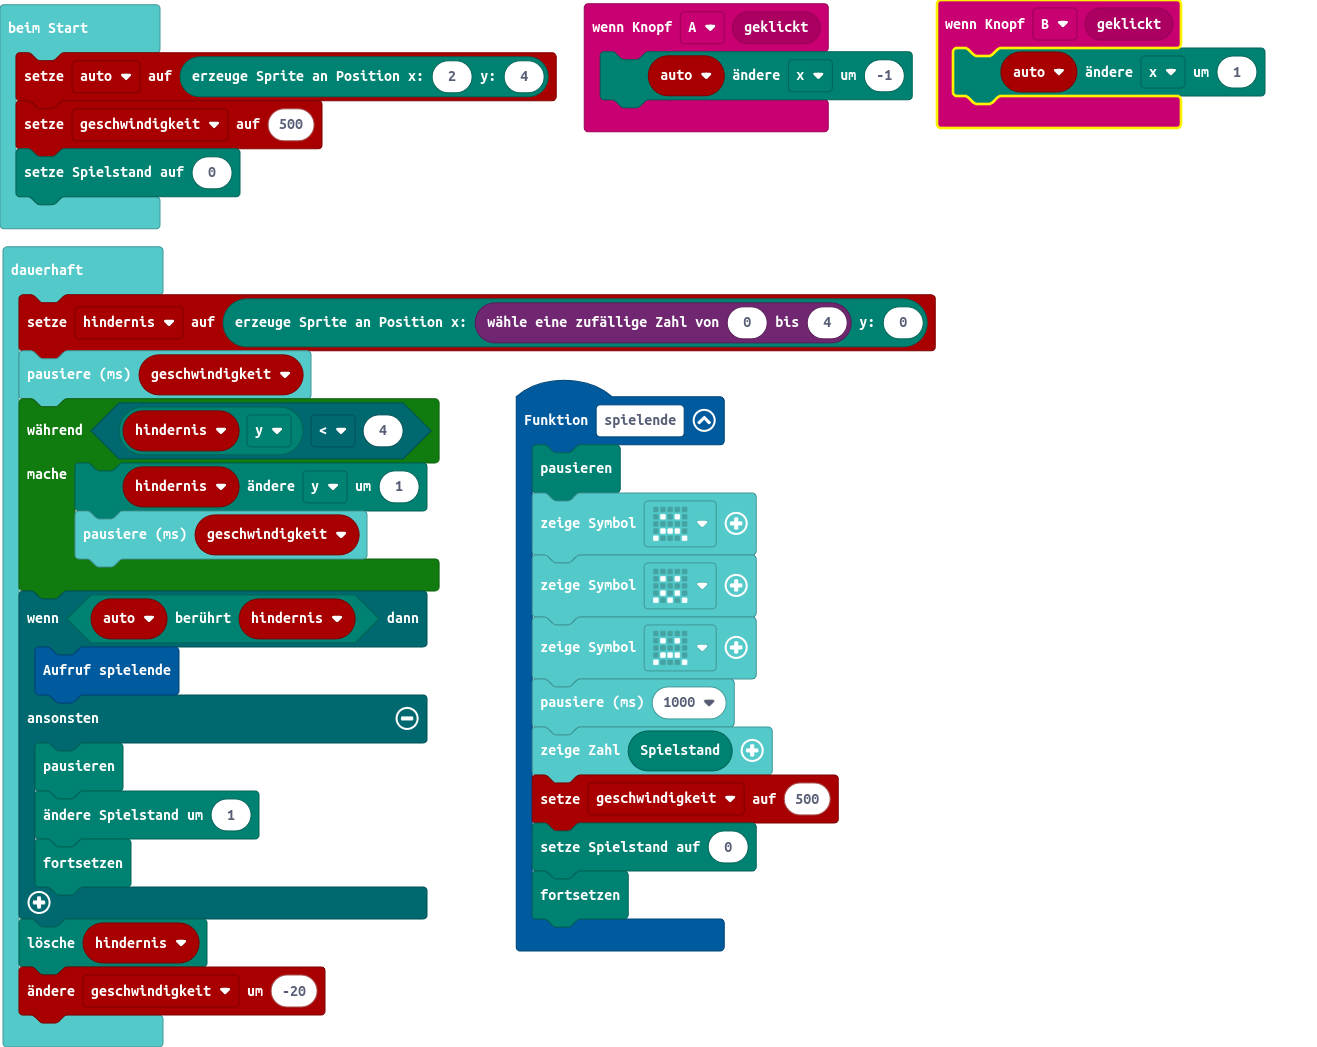
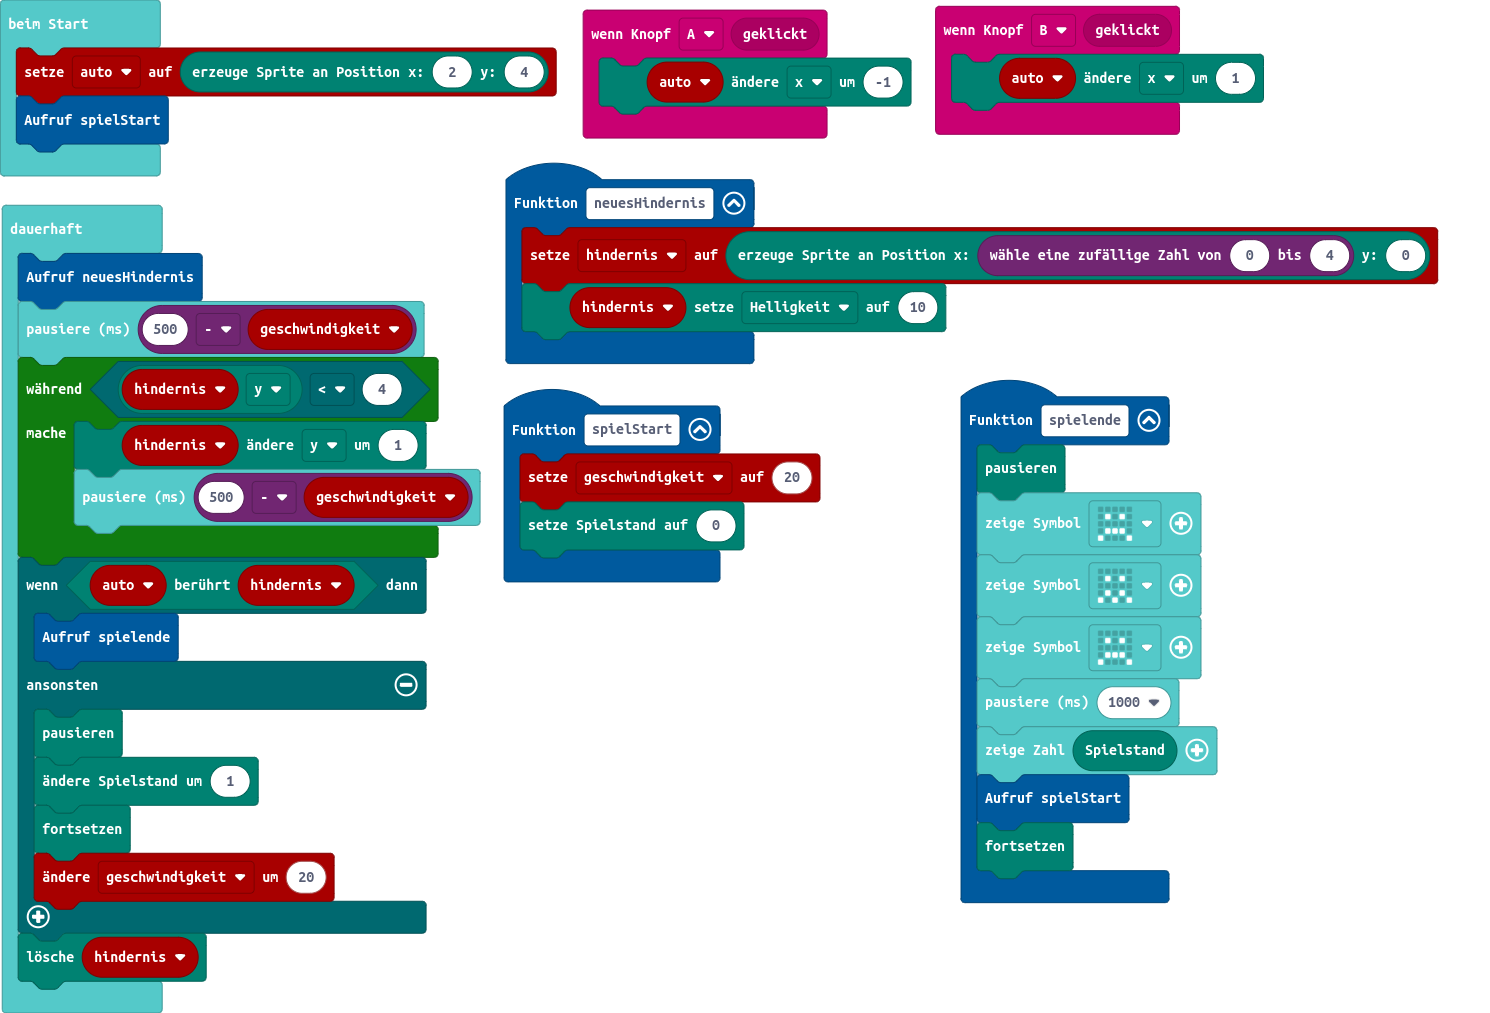
Aktualisiere main.blocks, main.ts

diff --git a/main.ts b/main.ts
@@ -1,3 +1,7 @@
+function spielStart () {
+    geschwindigkeit = 20
+    game.setScore(0)
+}
 input.onButtonEvent(Button.A, input.buttonEventClick(), function () {
     auto.change(LedSpriteProperty.X, -1)
 })
@@ -8,9 +12,12 @@ function spielende () {
     basic.showIcon(IconNames.Sad)
     basic.pause(1000)
     basic.showNumber(game.score())
-    geschwindigkeit = 500
-    game.setScore(0)
+    spielStart()
     game.resume()
+}
+function neuesHindernis () {
+    hindernis = game.createSprite(randint(0, 4), 0)
+    hindernis.set(LedSpriteProperty.Brightness, 10)
 }
 input.onButtonEvent(Button.B, input.buttonEventClick(), function () {
     auto.change(LedSpriteProperty.X, 1)
@@ -19,14 +26,13 @@ let hindernis: game.LedSprite = null
 let geschwindigkeit = 0
 let auto: game.LedSprite = null
 auto = game.createSprite(2, 4)
-geschwindigkeit = 500
-game.setScore(0)
+spielStart()
 basic.forever(function () {
-    hindernis = game.createSprite(randint(0, 4), 0)
-    basic.pause(geschwindigkeit)
+    neuesHindernis()
+    basic.pause(500 - geschwindigkeit)
     while (hindernis.get(LedSpriteProperty.Y) < 4) {
         hindernis.change(LedSpriteProperty.Y, 1)
-        basic.pause(geschwindigkeit)
+        basic.pause(500 - geschwindigkeit)
     }
     if (auto.isTouching(hindernis)) {
         spielende()
@@ -34,7 +40,7 @@ basic.forever(function () {
         game.pause()
         game.addScore(1)
         game.resume()
+        geschwindigkeit += 20
     }
     hindernis.delete()
-    geschwindigkeit += -20
 })
